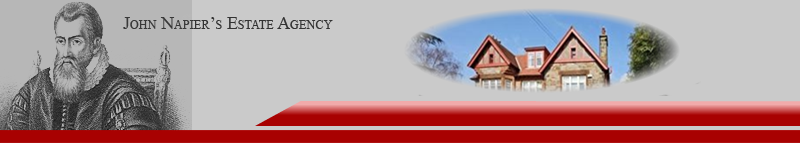
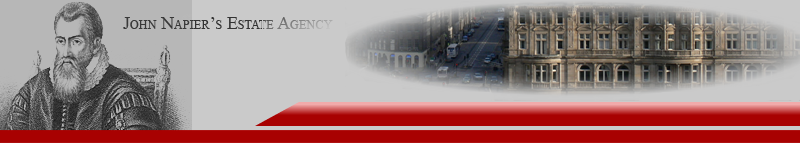
Views updated

Changed region(s): [[0.4375, 0.028, 1.0, 0.6434], [0.375, 0.6993, 1.0, 0.7273], [0.3125, 0.1399, 0.4375, 0.2238]]

diff --git a/web-app/css/main.css b/web-app/css/main.css
@@ -12,9 +12,10 @@ html * {
 }
 
 body {
-    background: #fff;
+
     color: #333;
     font: 11px verdana, arial, helvetica, sans-serif;
+	background: #000000 url(../images/mosac.png) repeat;
 }
 
 a:link, a:visited, a:hover {
@@ -25,9 +26,9 @@ a:link, a:visited, a:hover {
 
 h1 {
     color: #990000;
-    font-weight: normal;
+    font-weight: bold;
     font-size: 16px;
-    padding: 2px 20px 2px 0;
+	text-align:right;
 }
 
 ul {
@@ -56,7 +57,8 @@ input:focus, select:focus, textarea:focus {
 
 .body {
     float: left;
-    margin: 0 15px 10px 15px;
+    margin: 25px 15px 10px 15px;
+	width:578px;
 }
 
 /* NAVIGATION MENU */
@@ -129,7 +131,7 @@ background: url(../images/indentbg2.png) center center repeat-x;
 	font-weight:bold;
 }
 .nav {
-    background: #fff url(../images/skin/shadow.jpg) bottom repeat-x;
+    background: #fff url(../images/skin/shadow2.jpg) bottom repeat-x;
     border: 1px solid #ccc;
     border-style: solid none solid none;	
     margin-top: 5px;
@@ -212,7 +214,7 @@ td, th {
     vertical-align: top;
 }
 th {
-    background: #fff url(../images/skin/shadow.jpg);
+    background: #fff url(../images/skin/shadow2.jpg);
     color: #666;
     font-size: 11px;
     font-weight: bold;
@@ -254,13 +256,13 @@ th.desc a {
     border-left: 1px solid #ddd;
 }
 .list th:hover, .list tr:hover {
-    background: #b2d1ff;
+    background: #FF3333; /* #b2d1ff;*/
 }
 
 /* PAGINATION */
 
 .paginateButtons {
-    background: #fff url(../images/skin/shadow.jpg) bottom repeat-x;
+    background: #fff url(../images/skin/shadow2.jpg) bottom repeat-x;
     border: 1px solid #ccc;
     border-top: 0;
     color: #666;
@@ -302,7 +304,7 @@ th.desc a {
 /* ACTION BUTTONS */
 
 .buttons {
-    background: #fff url(../images/skin/shadow.jpg) bottom repeat-x;
+    background: #fff url(../images/skin/shadow2.jpg) bottom repeat-x;
     border: 1px solid #ccc;
     color: #666;
     font-size: 10px;

diff --git a/web-app/css/layout.css b/web-app/css/layout.css
@@ -3,7 +3,6 @@ font-family:Verdana, Arial, Helvetica, sans-serif;
 font-size: 0.8em;
 margin: 0;
 padding: 0;
-background: #000000 url(../images/mosac.png) repeat;
 }
 #container {
 	position: relative;
